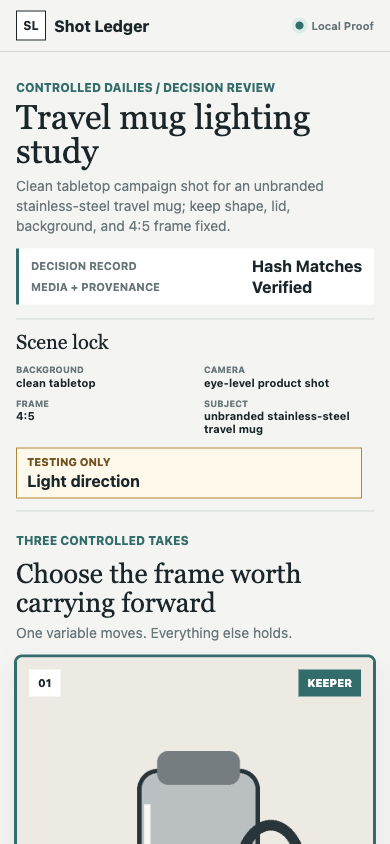
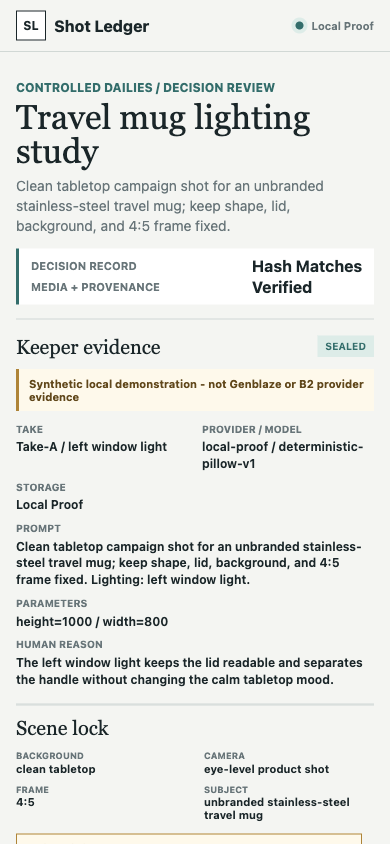
Expose judge-ready keeper evidence

Changed region(s): [[0.0308, 0.4005, 0.9846, 1.0]]

diff --git a/src/shot_ledger/server.py b/src/shot_ledger/server.py
@@ -44,6 +44,11 @@ def scene_payload(
     payload["integrity"] = "hash matches" if verify_packet(packet) else "hash mismatch"
     payload["media_integrity"] = verify_scene(repository, packet).to_dict()
     payload["storage_mode"] = repository.storage_mode
+    payload["proof_scope"] = (
+        "Synthetic local demonstration - not Genblaze or B2 provider evidence"
+        if repository.storage_mode == "local proof"
+        else "Live provider evidence reloaded from Backblaze B2"
+    )
     payload["write_enabled"] = write_enabled
     return payload
 

diff --git a/tests/test_review.py b/tests/test_review.py
@@ -52,6 +52,7 @@ def test_local_review_never_claims_b2_from_environment_alone(monkeypatch, tmp_pa
     assert payload["storage_mode"] == "local proof"
     assert payload["integrity"] == "hash matches"
     assert payload["media_integrity"]["status"] == "not verified"
+    assert payload["proof_scope"].startswith("Synthetic local demonstration")
     assert payload["write_enabled"]
 
 